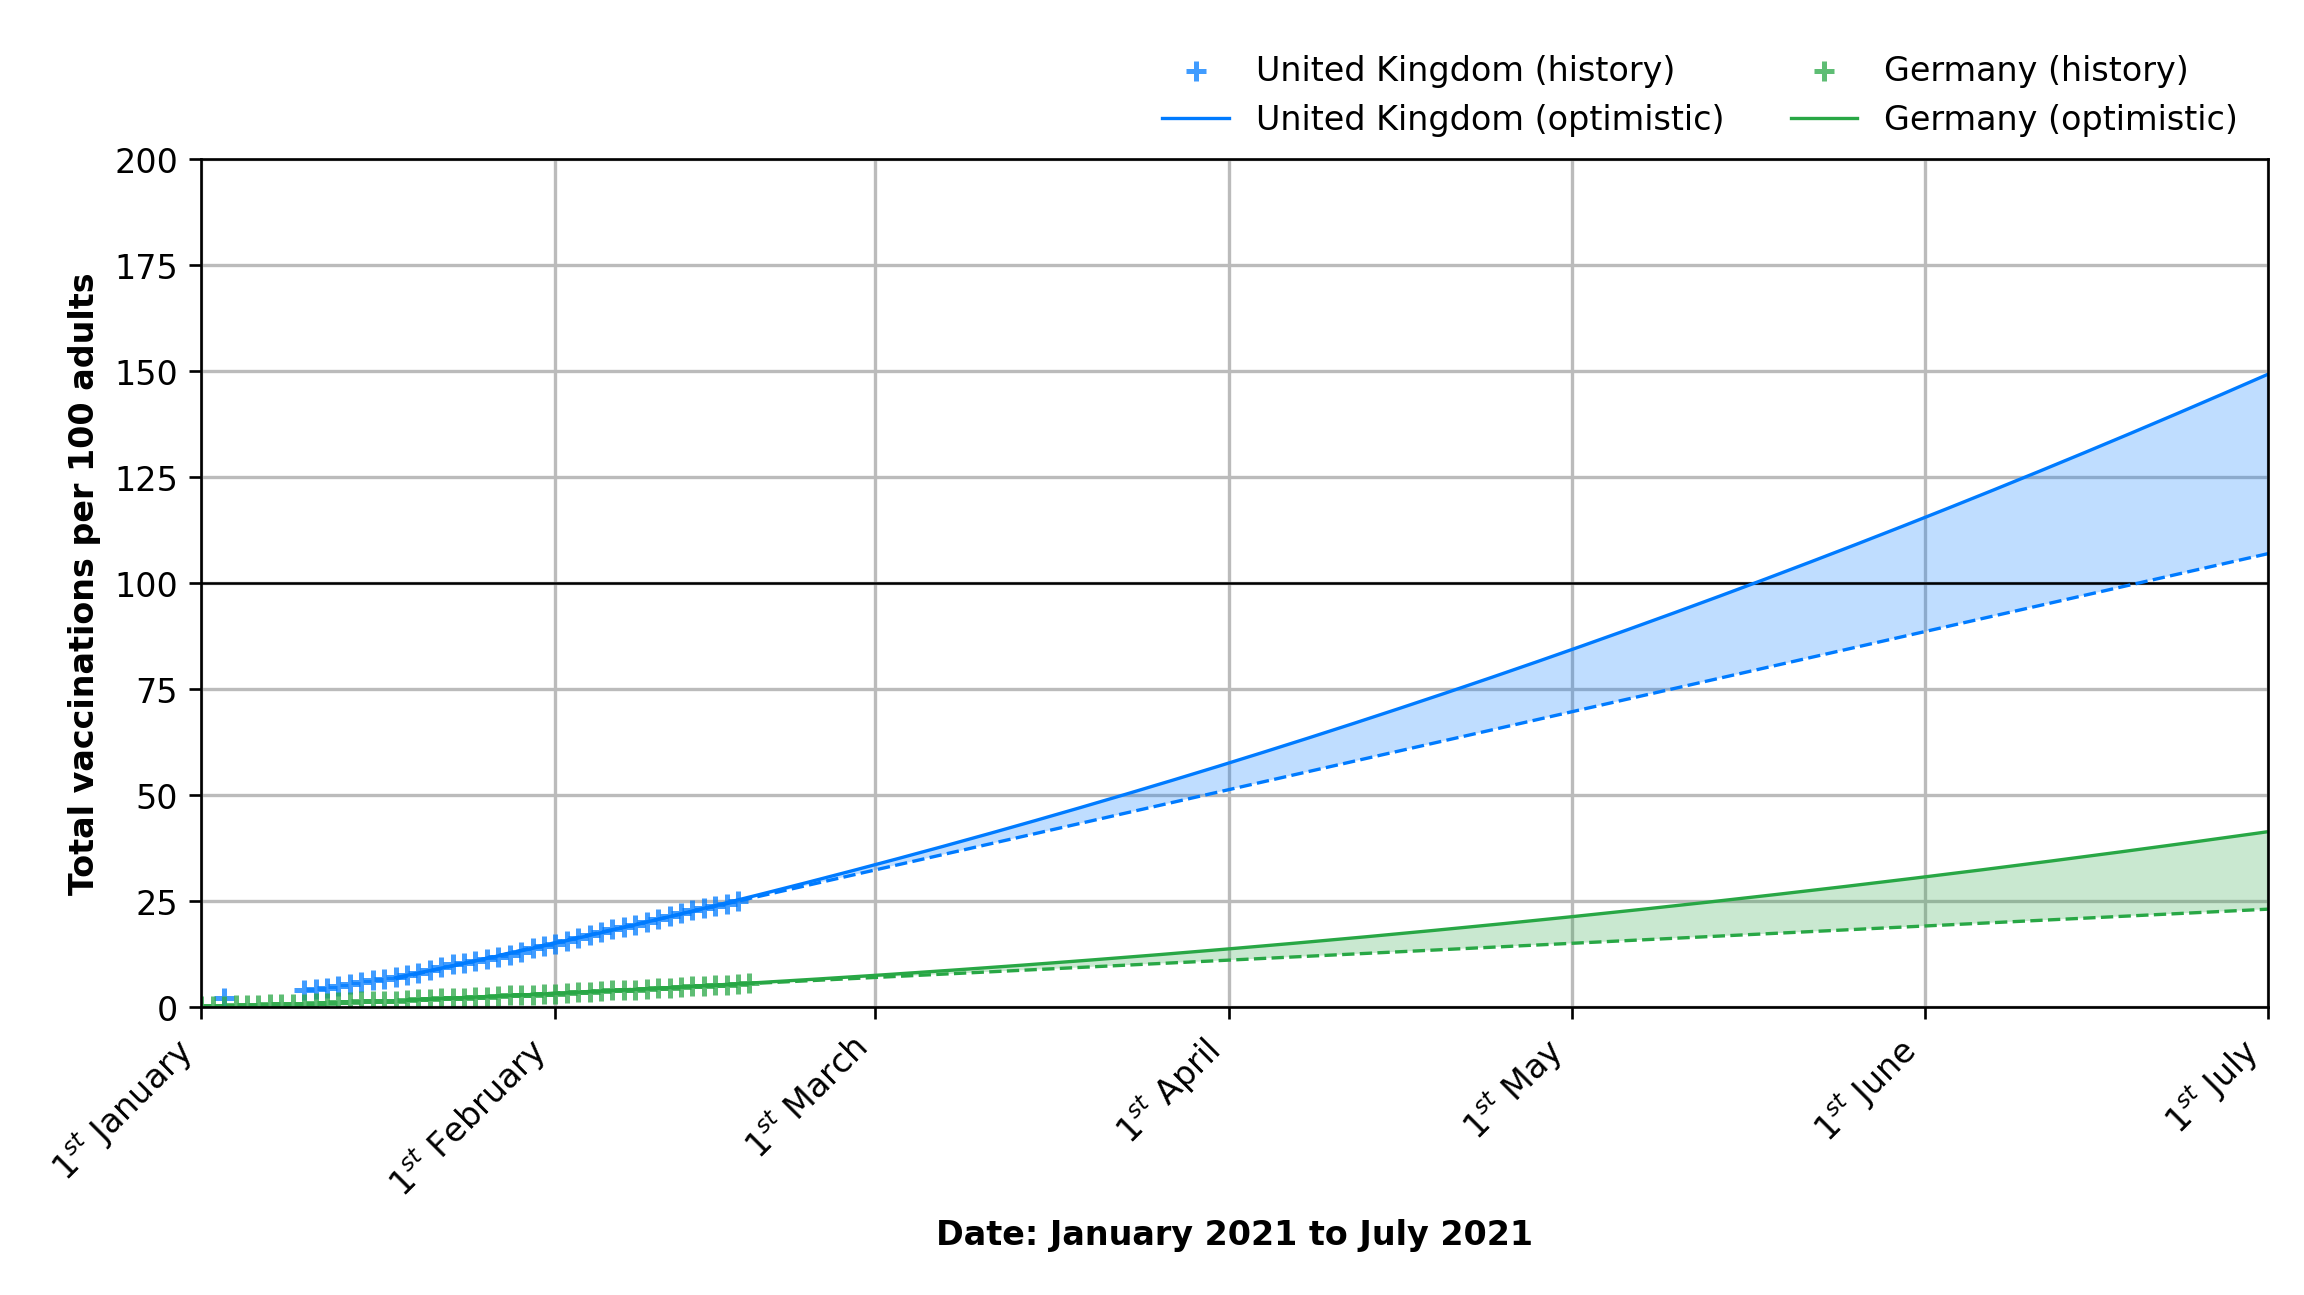
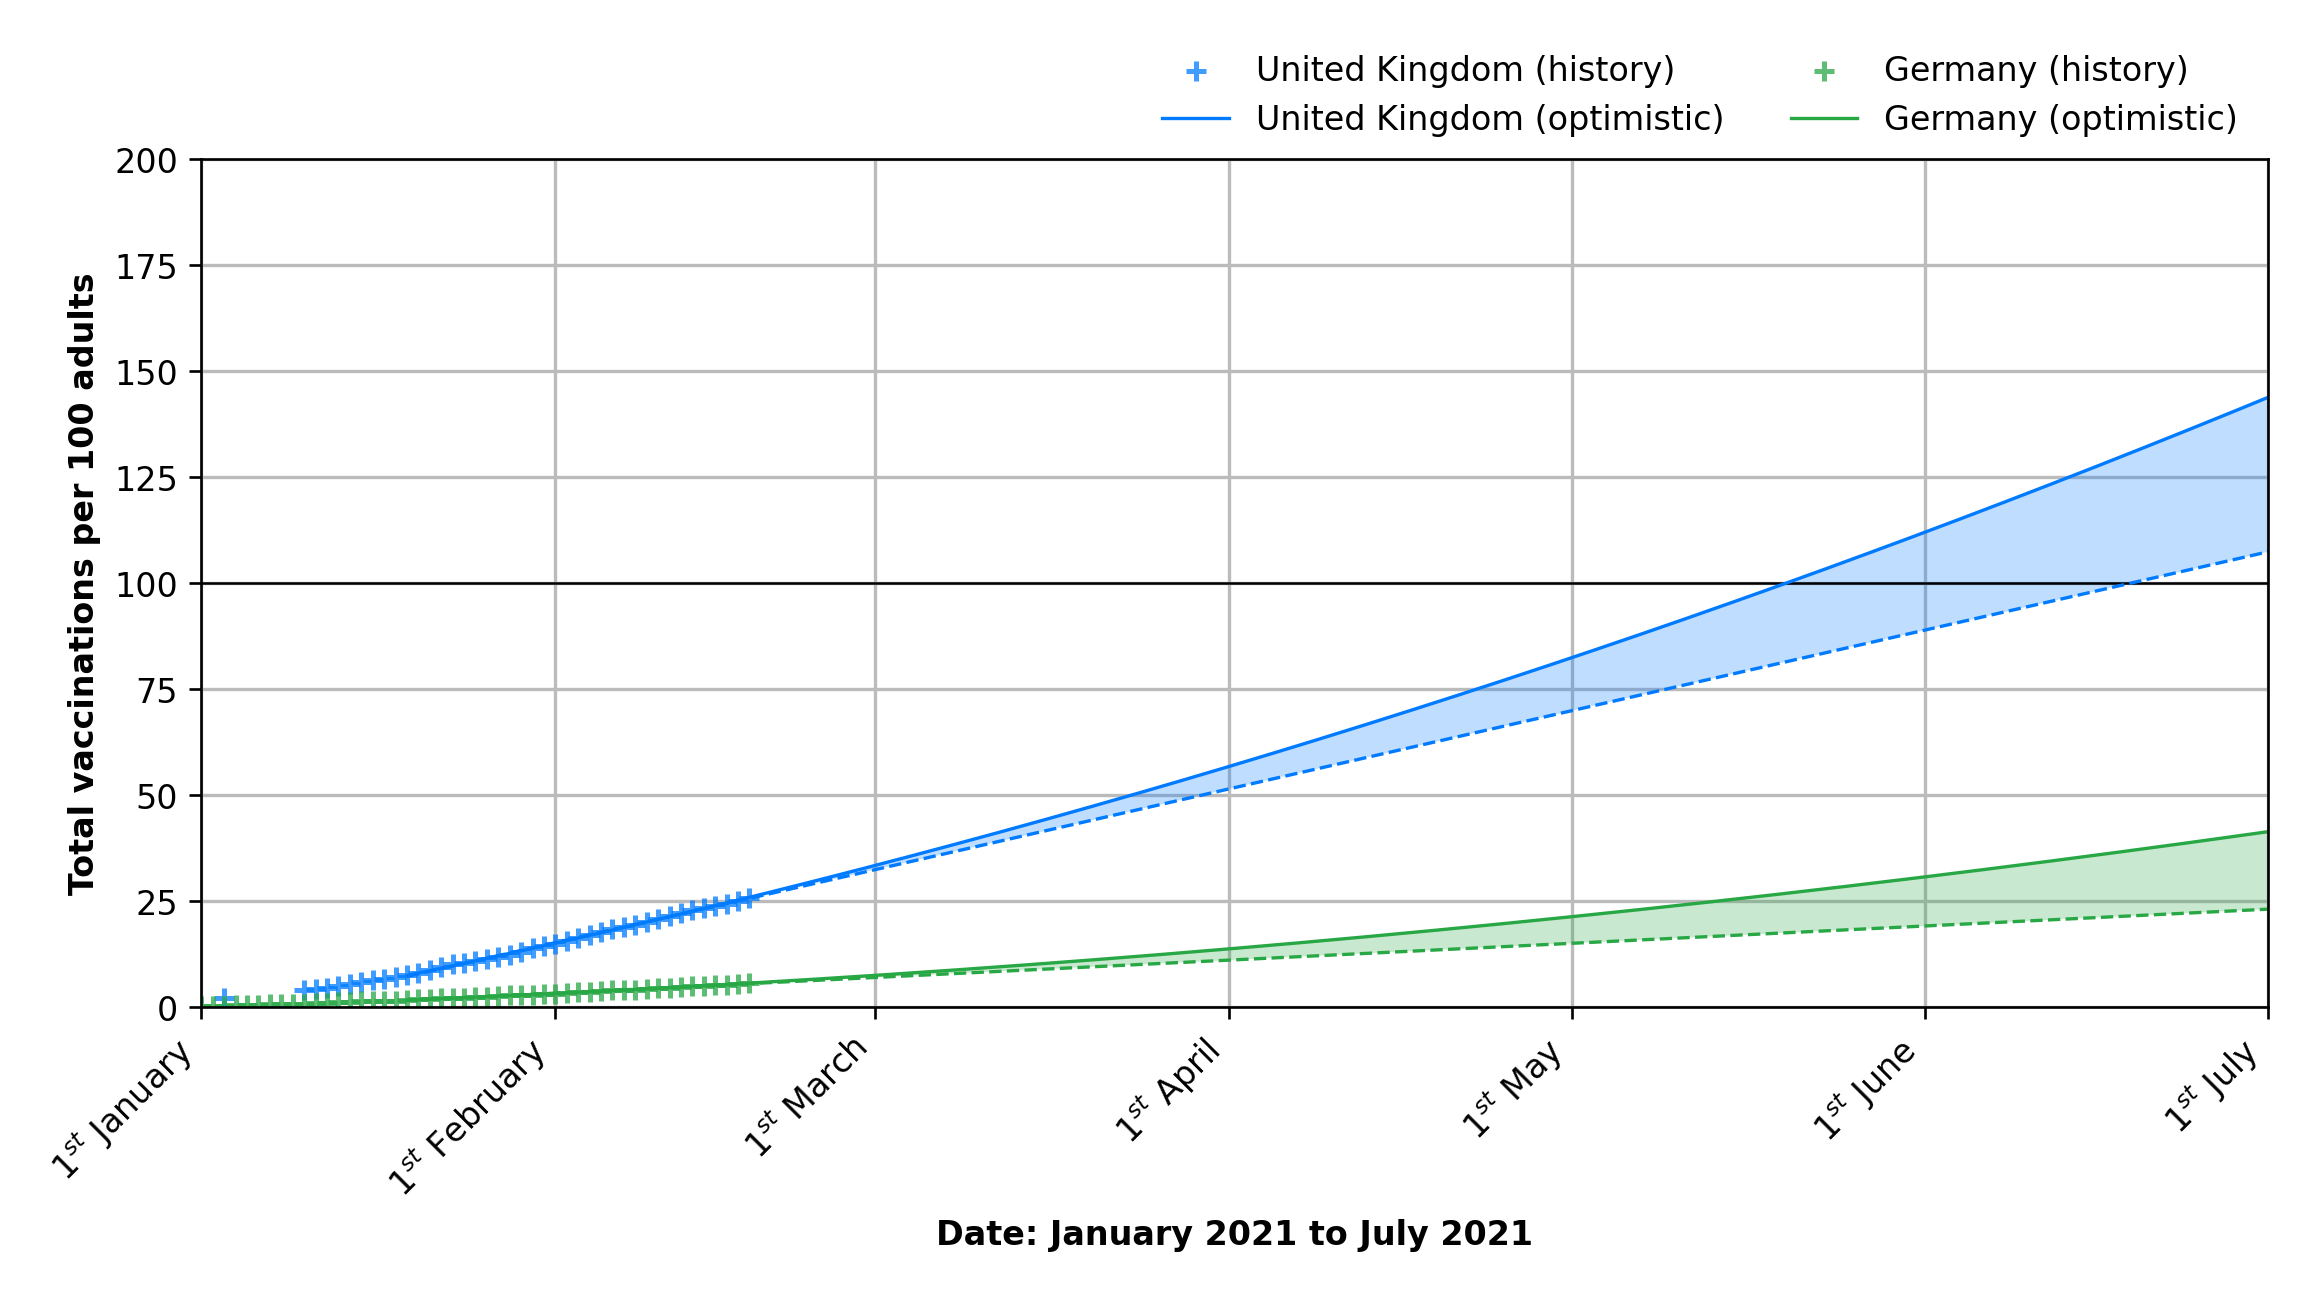
Deploying to gh-pages from @ lambdapioneer/vactrend@46a839a7355832af83c090f47a6886c648a86699 🚀

diff --git a/index.html b/index.html
@@ -38,13 +38,13 @@
                 <div class="card">
                     <div class="card-header">🇬🇧 United Kingdom</div>
                     <div class="card-body">
-                        <h3 class="font-weight-bold" style="color: #007bff">25.04 <small>(+0.74/d)</small></h3>
+                        <h3 class="font-weight-bold" style="color: #007bff">25.73 <small>(+0.69/d)</small></h3>
                         <p class="mt-n2">Vaccinations per 100 adults</p>
-                        <h3 class=" font-weight-bold">18 May 2021</h3>
+                        <h3 class=" font-weight-bold">20 May 2021</h3>
                         <p class="mt-n2">Earliest day: 100 vacc. per 100 adults</p>
-                        <h3 class=" font-weight-bold">11 August 2021</h3>
+                        <h3 class=" font-weight-bold">18 August 2021</h3>
                         <p class="mt-n2">Earliest day: 200 vacc. per 100 adults</p>
-                        <p class="card-text"><small class="text-muted">Last data from 17 February 2021.</small></p>
+                        <p class="card-text"><small class="text-muted">Last data from 18 February 2021.</small></p>
                     </div>
                 </div>
             </div>
